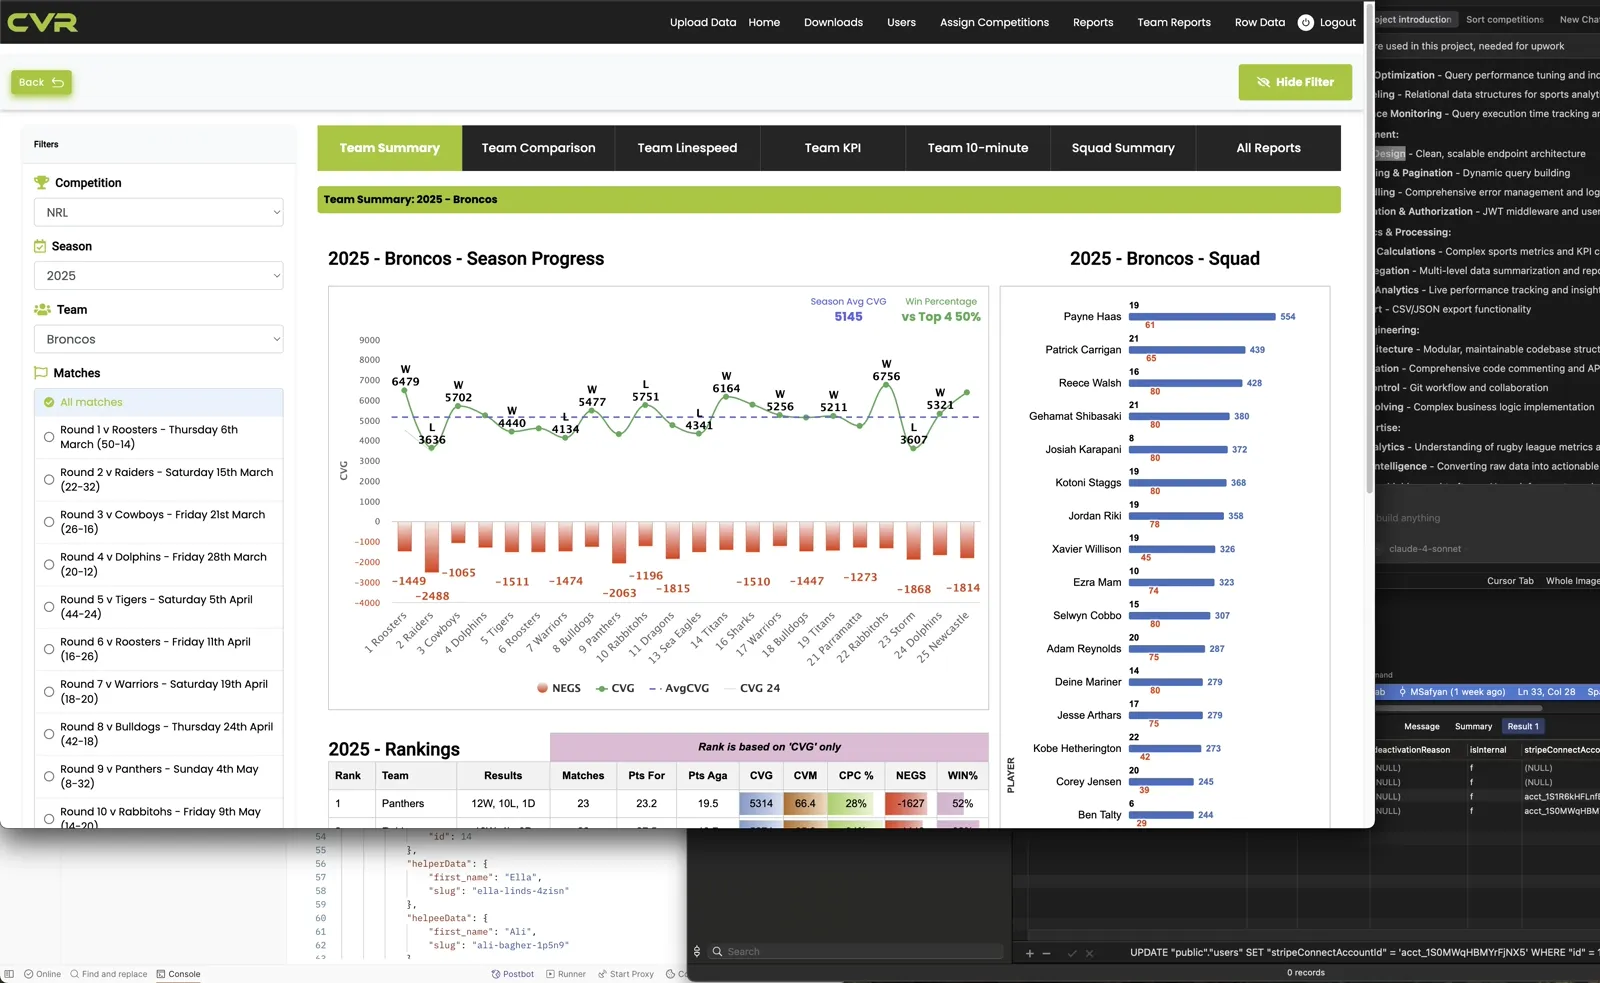
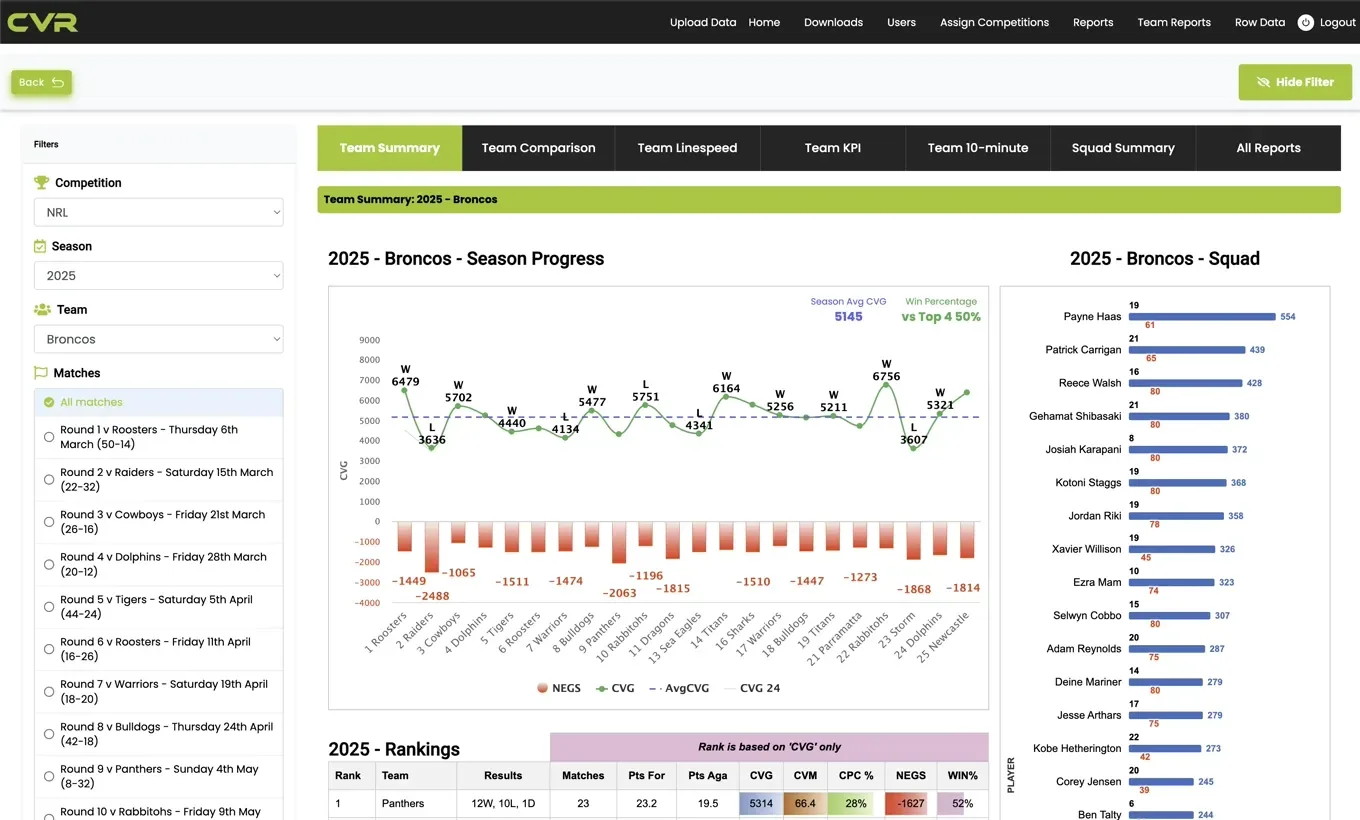
fix: crop the CVR screenshot to the app window
The original frame showed a code editor and a database console with
Stripe account IDs beside the app.

diff --git a/lib/work.ts b/lib/work.ts
@@ -670,8 +670,8 @@ export const WORK: CaseStudy[] = [
       {
         src: "/images/work/cvr2.webp",
         alt: "CVR rugby league analytics report view",
-        width: 1600,
-        height: 983,
+        width: 1360,
+        height: 820,
       },
     ],
   },
